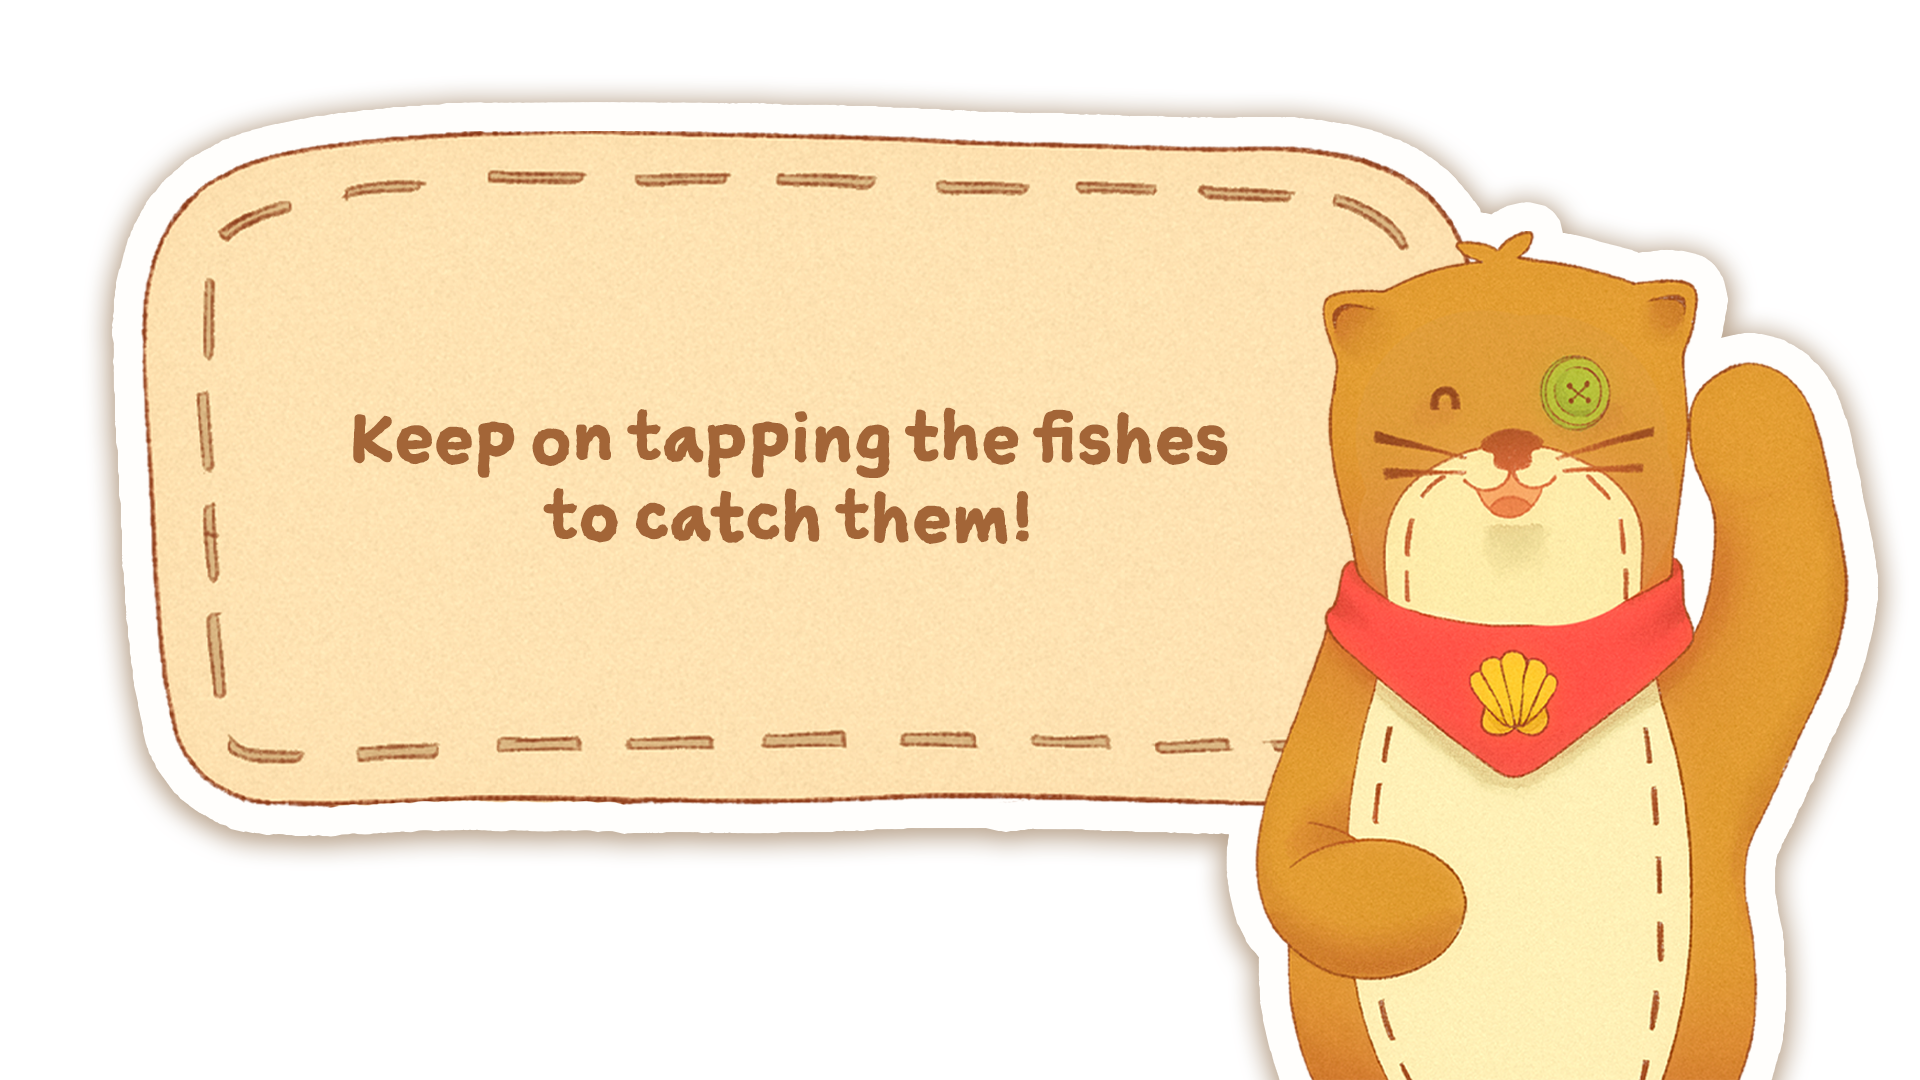
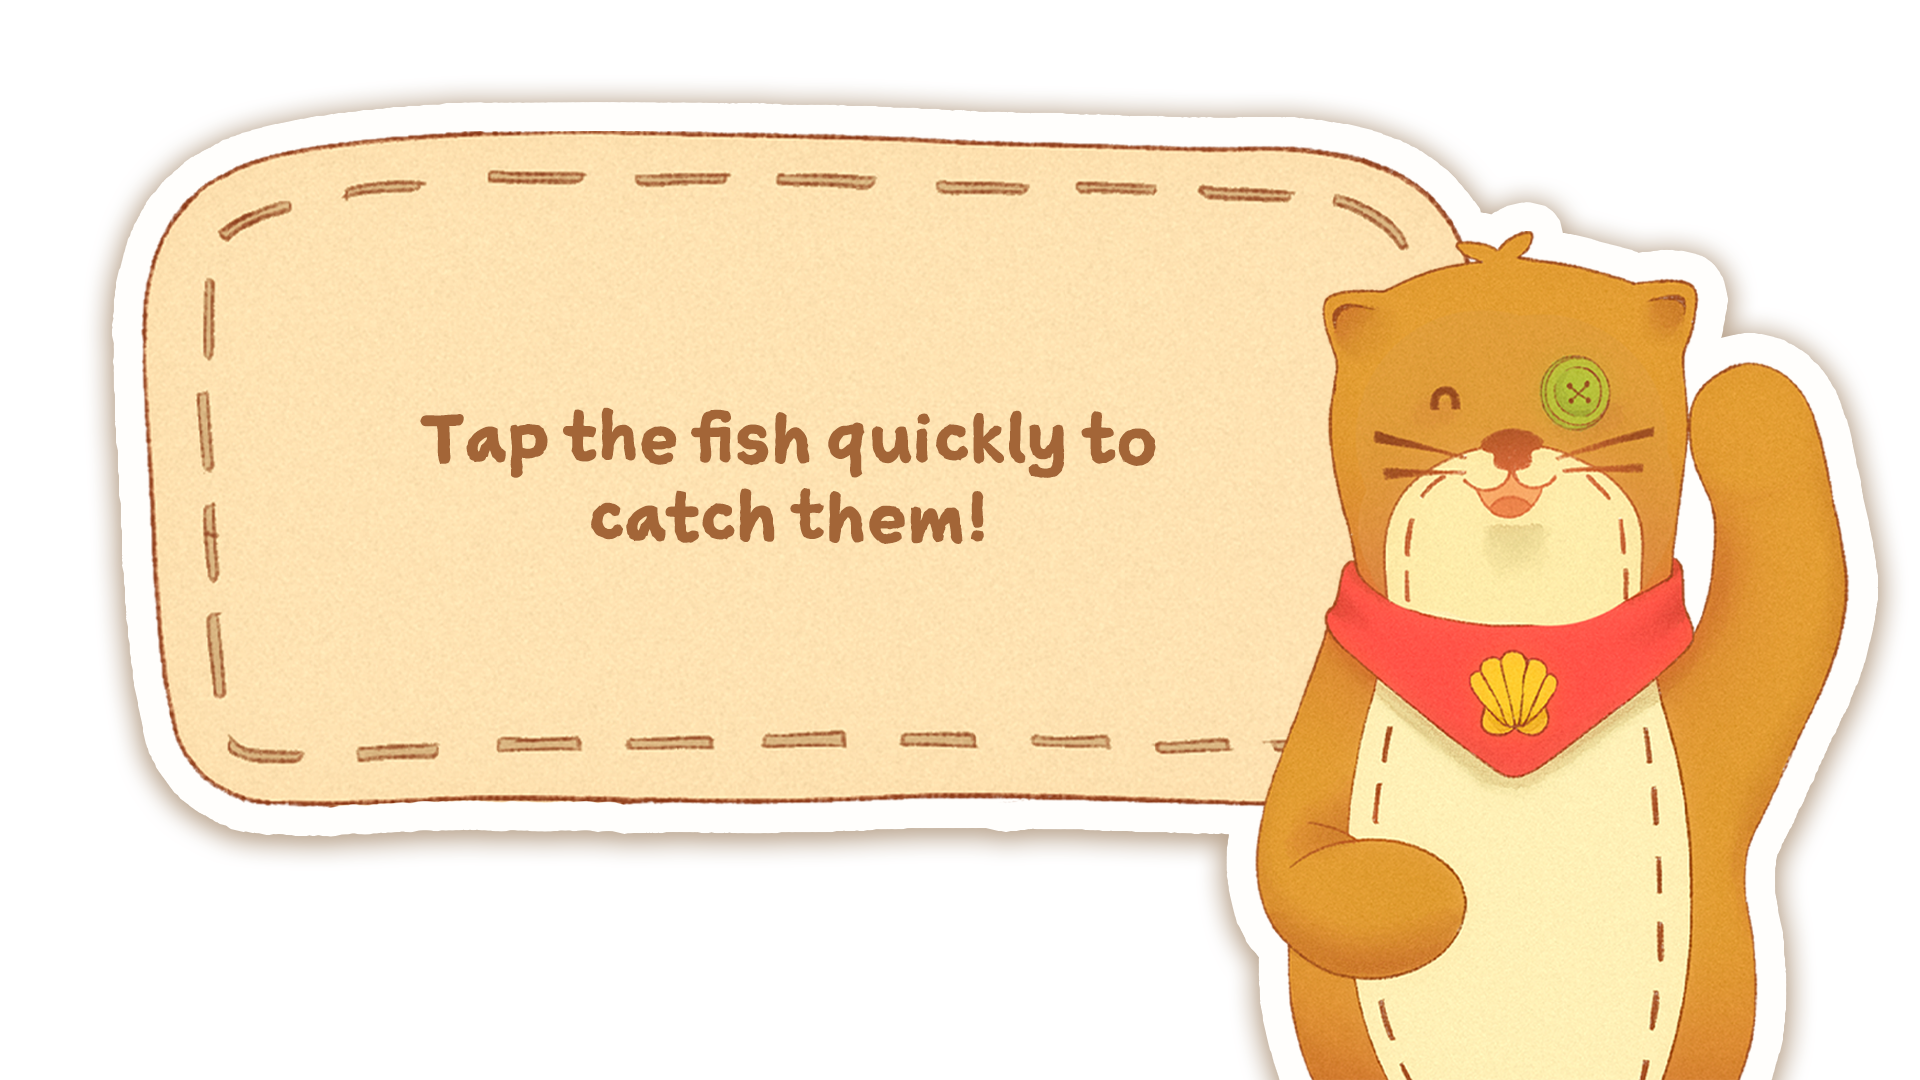
update dialogue box images and improve scaling logic for responsiveness, add new instructions

Changed region(s): [[0.1562, 0.3667, 0.6562, 0.5194]]

diff --git a/src/components/CLOUD/5P/Page_5P.tsx b/src/components/CLOUD/5P/Page_5P.tsx
@@ -13,6 +13,9 @@ const cloud5 = 'assets/CLOUD/5P/CLOUDS/cloud5.png'
 const cloud_dialogue_box_eng = 'assets/CLOUD/5P/cloud_dialogue_box_eng.png'
 const cloud_hit = 'assets/CLOUD/5P/cloud_hit.png'
 
+const Page_5P_eng = 'assets/CLOUD/5P/Page_5P_eng.png'
+const Page_5P_tag = 'assets/CLOUD/5P/Page_5P_tag.png'
+
 import { useLanguage } from '@/hooks/LanguageContext'
 
 // tagalog
@@ -20,6 +23,7 @@ const cloud_dialogue_box_tag = 'assets/CLOUD/5P/cloud_dialogue_box_tag.png'
 const cloud_hit_tag = 'assets/CLOUD/5P/cloud_hit_tag.png'
 // The pixelPerfectCollision function from above
 import { pixelPerfectCollision } from '@/utils/pixelCollision'
+import { useWindowSize } from '@/hooks/useWindowSize'
 
 const cloudHitAudio = 'audio/SFX/cloud_hit.mp3'
 
@@ -39,8 +43,8 @@ const Page_5P = React.forwardRef<HTMLDivElement, { onFlipNext: () => void }>(
       () => [
         { id: 'cloud1', x: 1280, y: 600, width: '55%', img: cloud1 },
         { id: 'cloud2', x: 1100, y: 85, width: '30%', img: cloud2 },
-        { id: 'cloud3', x: 560, y: 420, width: '100%', img: cloud3 },
-        { id: 'cloud6', x: 800, y: 820, width: '100%', img: cloud3 },
+        { id: 'cloud3', x: 560, y: 480, width: '20%', img: cloud3 },
+        { id: 'cloud6', x: 800, y: 820, width: '70%', img: cloud3 },
         { id: 'cloud4', x: 20, y: 750, width: '30%', img: cloud4 },
         { id: 'cloud5', x: 40, y: 10, width: '40%', img: cloud5 },
         { id: 'cloud7', x: 1300, y: 820, width: '20%', img: cloud3 },
@@ -112,9 +116,14 @@ const Page_5P = React.forwardRef<HTMLDivElement, { onFlipNext: () => void }>(
     const startGame = () => {
       setShowInstructions(false)
     }
+    const { width: windowWidth, height: windowHeight } = useWindowSize()
+
+    const baseWidth = 1600
+    const baseHeight = 963
+    const scale = Math.min(windowWidth / baseWidth, windowHeight / baseHeight)
 
     return (
-      <div className="relative w-full h-full" ref={ref}>
+      <div className="relative w-full h-full overflow-hidden" ref={ref}>
         {showInstructions && (
           <div
             onClick={startGame}
@@ -137,7 +146,24 @@ const Page_5P = React.forwardRef<HTMLDivElement, { onFlipNext: () => void }>(
           </div>
         )}
 
-        <div className="flex items-center h-full w-full">
+        <div className="flex items-center w-full h-full ">
+          {/* Background */}
+          <img
+            className="object-cover h-full w-full"
+            src={bg}
+            alt="background"
+          />
+          <img
+            className="z-[1] absolute object-contain p-8"
+            style={{
+              top: 36,
+              right: 60,
+              width: '30%',
+            }}
+            src={language === 'eng' ? Page_5P_eng : Page_5P_tag}
+            alt="dialogue"
+          />
+
           {/* Finish Line Ref */}
           <div
             ref={finishLineRef}
@@ -148,12 +174,6 @@ const Page_5P = React.forwardRef<HTMLDivElement, { onFlipNext: () => void }>(
               right: 0,
             }}
           ></div>
-          {/* Background */}
-          <img
-            className="object-cover h-full w-full"
-            src={bg}
-            alt="background"
-          />
 
           {/* Clouds */}
           {clouds.map((cloud, index) => (
@@ -187,6 +207,7 @@ const Page_5P = React.forwardRef<HTMLDivElement, { onFlipNext: () => void }>(
           ))}
 
           <Draggable
+            scale={scale}
             key={dragKey}
             position={planePosition}
             onDrag={(e, data) => {

diff --git a/src/components/FLOWER/3O/Page_3O.tsx b/src/components/FLOWER/3O/Page_3O.tsx
@@ -26,8 +26,12 @@ const arms = 'assets/FLOWER/arms.png'
 const instructions = 'assets/FLOWER/3O/instructions.png'
 const instructions_tag = 'assets/FLOWER/3O/instructions_tag.png'
 
+const Page_3O_tag = 'assets/FLOWER/3O/Page_3O_tag.png'
+const Page_3O_eng = 'assets/FLOWER/3O/Page_3O_eng.png'
+
 import Draggable, { DraggableEvent } from 'react-draggable'
 import { useLanguage } from '@/hooks/LanguageContext'
+import { useWindowSize } from '@/hooks/useWindowSize'
 
 const flowerDropAudio = 'audio/SFX/flower_drop.mp3'
 
@@ -169,6 +173,12 @@ const Page_3O = React.forwardRef<HTMLDivElement, { onFlipNext: () => void }>(
       setShowInstructions(false)
     }
 
+    const { width: windowWidth, height: windowHeight } = useWindowSize()
+
+    const baseWidth = 1600
+    const baseHeight = 963
+    const scale = Math.min(windowWidth / baseWidth, windowHeight / baseHeight)
+
     return (
       <div className="relative w-full h-full">
         <div className="flex items-center justify-center" ref={ref}>
@@ -190,13 +200,24 @@ const Page_3O = React.forwardRef<HTMLDivElement, { onFlipNext: () => void }>(
             </div>
           )}
           {/* Background */}
-          <img
-            className="object-cover w-full h-full"
-            sizes="100vw"
-            src={sky}
-            alt="background"
-          />
+          <div className="h-full w-full flex  justify-center">
+            <img
+              className="object-cover w-full h-full"
+              sizes="100vw"
+              src={sky}
+              alt="background"
+            />
 
+            <img
+              className="absolute object-contain p-8"
+              style={{
+                top: 24,
+                width: '70%',
+              }}
+              src={language === 'eng' ? Page_3O_eng : Page_3O_tag}
+              alt="dialogue"
+            />
+          </div>
           <div className="absolute bottom-0 left-1/2 -translate-x-1/2">
             {/* Muni + arms container */}
             <div className="relative w-[500px] h-auto">
@@ -211,6 +232,7 @@ const Page_3O = React.forwardRef<HTMLDivElement, { onFlipNext: () => void }>(
 
           {flowers.map(({ id, x, y, img, imgM }) => (
             <Draggable
+              scale={scale}
               key={id}
               disabled={isFlowerDropped[id]}
               position={positions[id]}

diff --git a/src/components/FISH/4Q/Page_4Q.tsx b/src/components/FISH/4Q/Page_4Q.tsx
@@ -33,6 +33,9 @@ const tilapia_tag = 'assets/FISH/4Q/caught/tilapia_tag.png'
 const galunggong_tag = 'assets/FISH/4Q/caught/galung_tag.png'
 const lapulapu_tag = 'assets/FISH/4Q/caught/lapulapu_tag.png'
 
+const Page_4Q_eng = 'assets/FISH/4Q/Page_4Q_eng.png'
+const Page_4Q_tag = 'assets/FISH/4Q/Page_4Q_tag.png'
+
 import { useLanguage } from '@/hooks/LanguageContext'
 
 const fishCatchAudio = 'audio/SFX/fish_catch.mp3'
@@ -222,7 +225,7 @@ const Page_4Q = React.forwardRef<
         >
           {/* dialogue */}
           <img
-            className="absolute object-contain w-full h-full"
+            className="absolute object-contain w-full"
             style={{
               bottom: 0,
               width: '70%',
@@ -238,6 +241,16 @@ const Page_4Q = React.forwardRef<
           sizes="100vw"
           src={bg}
           alt="background"
+        />
+        <img
+          className="absolute object-contain p-8"
+          style={{
+            top: 36,
+            right: 36,
+            width: '40%',
+          }}
+          src={language === 'eng' ? Page_4Q_eng : Page_4Q_tag}
+          alt="dialogue"
         />
         <img
           className="absolute object-contain w-[20%]"

diff --git a/src/app/layout.tsx b/src/app/layout.tsx
@@ -1,5 +1,6 @@
 import type { Metadata } from 'next'
 import { Geist, Geist_Mono } from 'next/font/google'
+import localFont from 'next/font/local'
 import './globals.css'
 
 const geistSans = Geist({
@@ -24,7 +25,15 @@ export default function RootLayout({
 }>) {
   return (
     <html lang="en">
-      <head></head>
+      <head>
+        <link
+          rel="preload"
+          href="fonts/better_chalk.woff"
+          as="font"
+          type="font/woff"
+          crossOrigin="anonymous"
+        />
+      </head>
       <body
         className={`${geistSans.variable} ${geistMono.variable} antialiased`}
       >
